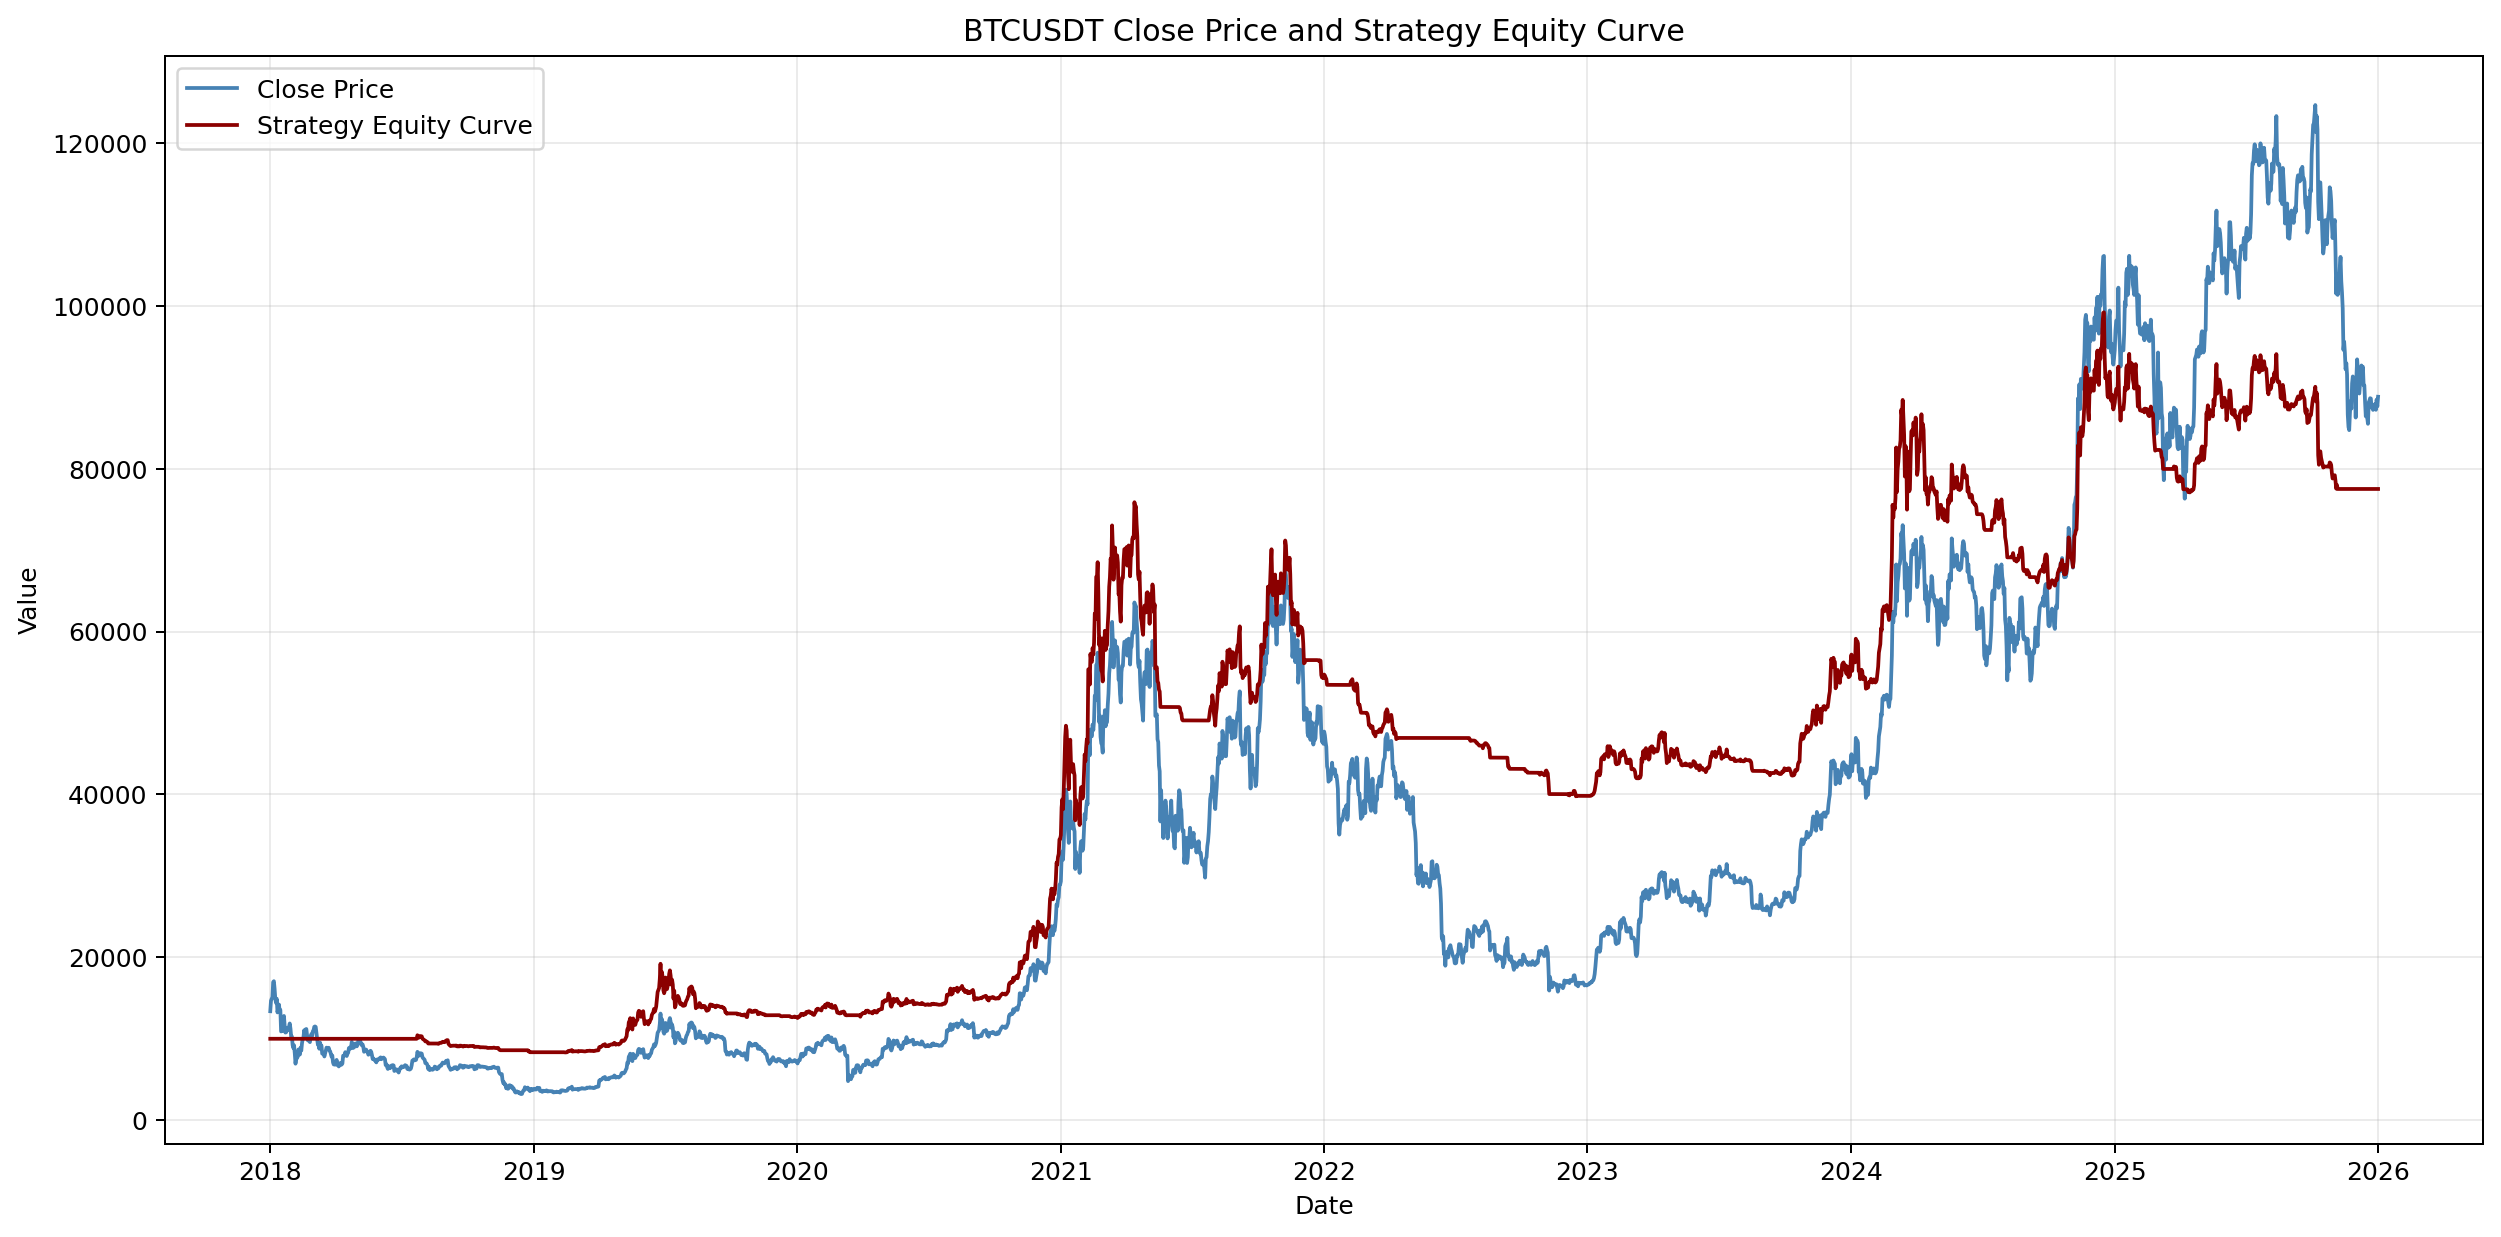
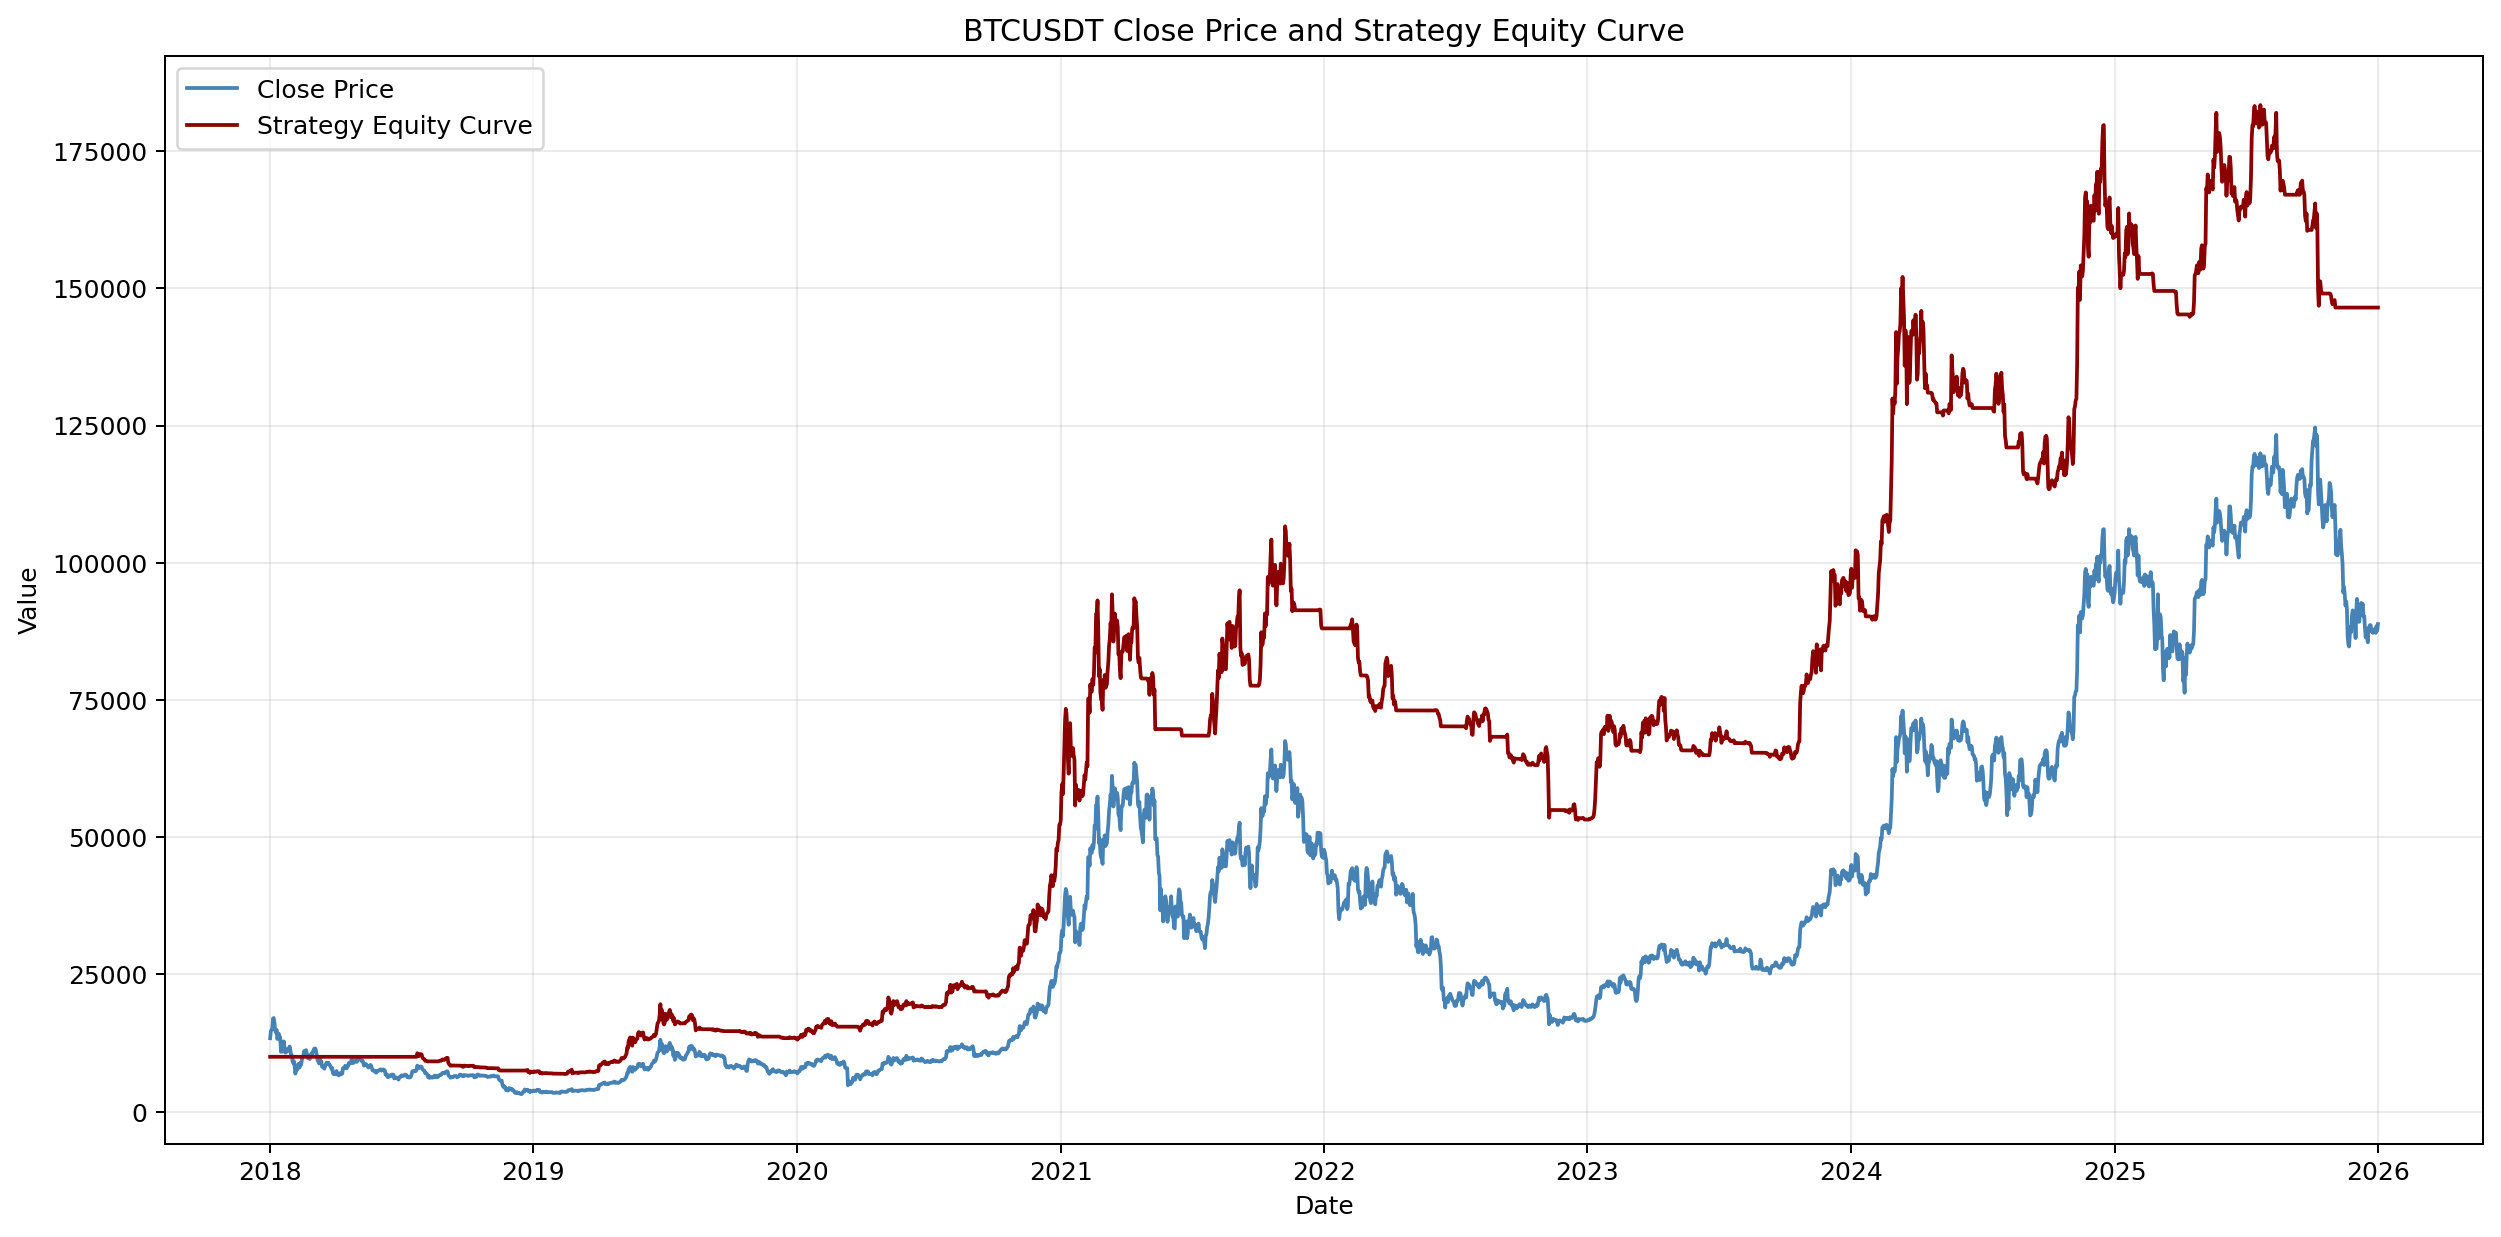
included bayesian optimisated weights

diff --git a/weight_search/optimize_weights.py b/weight_search/optimize_weights.py
@@ -1,0 +1,180 @@
+import argparse
+import json
+from pathlib import Path
+
+import numpy as np
+import optuna
+import pandas as pd
+
+import sys
+
+PROJECT_ROOT = Path(__file__).resolve().parent.parent
+if str(PROJECT_ROOT) not in sys.path:
+    sys.path.insert(0, str(PROJECT_ROOT))
+
+
+from exchange.client import get_client
+from scoring_bot import (
+    END,
+    EXPOSURE_LEVELS,
+    FEE_RATE,
+    INITIAL_CASH,
+    INTERVAL,
+    PROJECT_ROOT,
+    START,
+    SYMBOL,
+    TESTNET,
+    ZONE_EDGES,
+    build_feature_frame,
+    load_mvrv_series,
+)
+
+
+WEIGHT_KEYS = ("sma_dist", "ema_slope", "rsi", "exnet", "mvrv")
+RESULTS_DIR = PROJECT_ROOT / "weight_search"
+BEST_WEIGHTS_PATH = RESULTS_DIR / "best_weights.json"
+
+
+def normalize_weights(raw_weights):
+    total = sum(raw_weights.values())
+    if total <= 0:
+        return {key: 1.0 / len(raw_weights) for key in raw_weights}
+    return {key: value / total for key, value in raw_weights.items()}
+
+
+def apply_weights(feat, weights):
+    working = feat.copy()
+    working["combined_signal"] = sum(
+        weights[key] * working[f"{key}_scaled"] for key in WEIGHT_KEYS
+    )
+    working["bo_exposure"] = pd.cut(
+        working["combined_signal"],
+        bins=[-np.inf] + ZONE_EDGES + [np.inf],
+        labels=EXPOSURE_LEVELS,
+        include_lowest=True,
+    ).astype(float)
+    return working
+
+
+def backtest_window(feat, weights, mask):
+    working = apply_weights(feat, weights)
+    position = working["bo_exposure"].astype(float).fillna(0.0)
+    position_change = position.diff().abs().fillna(0.0)
+    transaction_cost = position_change * FEE_RATE
+    strategy_return = position.shift(1).fillna(0.0) * working["close"].pct_change().fillna(0.0) - transaction_cost
+
+    window_returns = strategy_return.loc[mask]
+    equity_curve = (1 + window_returns).cumprod() * INITIAL_CASH
+
+    if equity_curve.empty:
+        raise ValueError("Window backtest produced no rows; check the date split.")
+
+    running_peak = equity_curve.cummax()
+    max_drawdown = (equity_curve / running_peak - 1).min()
+
+    return {
+        "final_portfolio_value": float(equity_curve.iloc[-1]),
+        "total_return_pct": float((equity_curve.iloc[-1] / INITIAL_CASH - 1) * 100),
+        "max_drawdown_pct": float(max_drawdown * 100),
+        "equity_curve": equity_curve,
+    }
+
+
+def load_data():
+    client = get_client(testnet=TESTNET)
+    klines = client.get_historical_klines(SYMBOL, INTERVAL, START, END)
+    raw_df = pd.DataFrame(
+        klines,
+        columns=[
+            "open_time",
+            "open",
+            "high",
+            "low",
+            "close",
+            "volume",
+            "close_time",
+            "quote_asset_volume",
+            "number_of_trades",
+            "taker_buy_base_asset_volume",
+            "taker_buy_quote_asset_volume",
+            "ignore",
+        ],
+    )
+
+    mvrv_series = load_mvrv_series(PROJECT_ROOT / "mvrv_historic.json")
+    return build_feature_frame(raw_df, mvrv_series)
+
+
+def split_masks(feat, validation_days):
+    unique_dates = pd.Index(sorted(pd.unique(feat["date"])))
+    if validation_days >= len(unique_dates):
+        raise ValueError("validation_days must be smaller than the available data range.")
+
+    validation_start = unique_dates[-validation_days]
+    train_mask = feat["date"] < validation_start
+    validation_mask = feat["date"] >= validation_start
+    return train_mask, validation_mask, validation_start
+
+
+def make_objective(feat, train_mask):
+    def objective(trial):
+        raw_weights = {key: trial.suggest_float(key, 0.0, 1.0) for key in WEIGHT_KEYS}
+        weights = normalize_weights(raw_weights)
+        result = backtest_window(feat, weights, train_mask)
+        trial.set_user_attr("max_drawdown_pct", result["max_drawdown_pct"])
+        return result["final_portfolio_value"]
+
+    return objective
+
+
+def parse_args():
+    parser = argparse.ArgumentParser(description="Discover signal weights with Bayesian optimization.")
+    parser.add_argument("--trials", type=int, default=75, help="Number of BO trials to run.")
+    parser.add_argument(
+        "--validation-days",
+        type=int,
+        default=365,
+        help="Number of days to hold out at the end for the final score.",
+    )
+    parser.add_argument("--seed", type=int, default=42, help="Random seed for the sampler.")
+    return parser.parse_args()
+
+
+def main():
+    args = parse_args()
+    feat = load_data()
+    train_mask, validation_mask, validation_start = split_masks(feat, args.validation_days)
+
+    RESULTS_DIR.mkdir(parents=True, exist_ok=True)
+
+    study = optuna.create_study(direction="maximize", sampler=optuna.samplers.TPESampler(seed=args.seed))
+    study.optimize(make_objective(feat, train_mask), n_trials=args.trials)
+
+    best_weights = normalize_weights(study.best_trial.params)
+    train_result = backtest_window(feat, best_weights, train_mask)
+    validation_result = backtest_window(feat, best_weights, validation_mask)
+
+    payload = {
+        "validation_start": str(validation_start),
+        "best_trial_value": study.best_value,
+        "best_weights": best_weights,
+        "train_final_portfolio_value": train_result["final_portfolio_value"],
+        "train_total_return_pct": train_result["total_return_pct"],
+        "train_max_drawdown_pct": train_result["max_drawdown_pct"],
+        "validation_final_portfolio_value": validation_result["final_portfolio_value"],
+        "validation_total_return_pct": validation_result["total_return_pct"],
+        "validation_max_drawdown_pct": validation_result["max_drawdown_pct"],
+    }
+
+    BEST_WEIGHTS_PATH.write_text(json.dumps(payload, indent=2), encoding="utf-8")
+
+    print("Best weights discovered:")
+    for key, value in best_weights.items():
+        print(f"  {key}: {value:.4f}")
+    print(f"Training final portfolio value: ${train_result['final_portfolio_value']:.2f}")
+    print(f"Validation final portfolio value: ${validation_result['final_portfolio_value']:.2f}")
+    print(f"Saved results to {BEST_WEIGHTS_PATH}")
+
+
+if __name__ == "__main__":
+    main()

diff --git a/scoring_bot.py b/scoring_bot.py
@@ -85,11 +85,11 @@ def build_feature_frame(raw_df, mvrv_series):
     feat["volatility_scaled"] = scale_to_range(feat["volatility_20"], 0.0, 0.06)
 
     feat["combined_signal"] = (
-        0.3 * feat["sma_dist_scaled"]
-        + 0.2 * feat["ema_slope_scaled"]
-        + 0.15 * feat["rsi_scaled"]
-        + 0.05 * feat["exnet_scaled"]
-        + 0.3 * feat["mvrv_scaled"]
+        0.001 * feat["sma_dist_scaled"]
+        + 0.4882 * feat["ema_slope_scaled"]
+        + 0.5020 * feat["rsi_scaled"]
+        + 0.0007 * feat["exnet_scaled"]
+        + 0.009 * feat["mvrv_scaled"]
     )
 
     feat["exposure"] = pd.cut(

diff --git a/weight_search/README.md b/weight_search/README.md
@@ -1,0 +1,11 @@
+# Weight Search
+
+This folder contains a separate Bayesian-optimization entrypoint for discovering signal weights.
+
+Run it after setting up your Binance credentials:
+
+```bash
+python3 weight_search/optimize_weights.py --trials 75 --validation-days 365
+```
+
+The script tunes the weight blend on the training history and reports a final holdout score on the last `validation-days` of data. The best run is written to `weight_search/best_weights.json`.

diff --git a/README.md b/README.md
@@ -1,6 +1,6 @@
 # BTC Scoring Bot
 
-A small crypto signal and backtesting project that blends technical indicators with on-chain MVRV data to produce a simple BTC exposure model.
+A small crypto signal and backtesting project that blends technical indicators with on-chain MVRV data to produce a simple BTC exposure model. Bayesian optimisation used on weights.
 
 ## What it does
 
@@ -19,6 +19,7 @@ A small crypto signal and backtesting project that blends technical indicators w
 ## Project structure
 
 - `scoring_bot.py` - main pipeline, feature engineering, backtest, and chart export
+- `weight_search/` - Bayesian optimization entrypoint for discovering signal weights
 - `config/` - API key loading and local environment handling
 - `exchange/` - Binance client setup
 - `data/` - data helpers